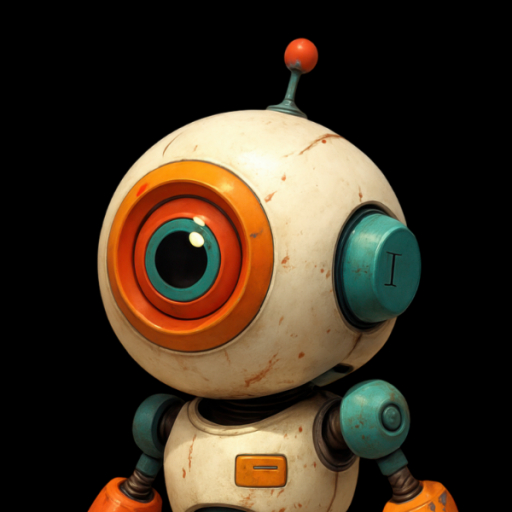
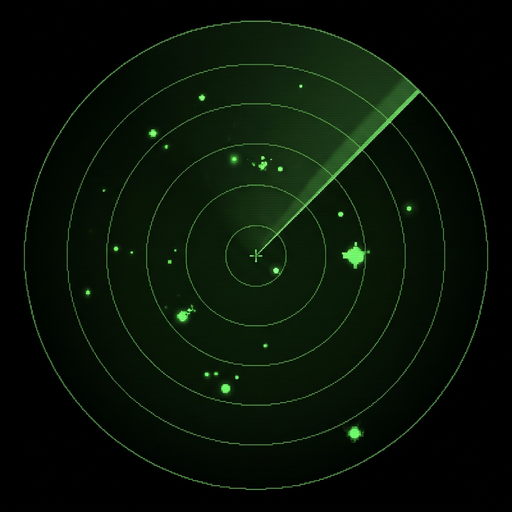
chore: rename project to Vigilux and update assets
Rebranded the application to "Vigilux", updated HTML metadata, manifest configuration, and icon references. Incremented service worker cache version and updated the file cache list.

diff --git a/Pixelwatch2.html b/Pixelwatch2.html
@@ -5,13 +5,16 @@
 <meta name="viewport" content="width=device-width, initial-scale=1.0, maximum-scale=1.0, user-scalable=no">
 <meta name="theme-color" content="#1e1e1e">
 <meta name="apple-mobile-web-app-capable" content="yes">
+<meta name="apple-mobile-web-app-title" content="Vigilux">
 <meta name="apple-mobile-web-app-status-bar-style" content="black-translucent">
-<meta name="description" content="Optisches und akustisches Überwachungssystem mit Rhythmus-Erkennung, Anker-Referenz, Mute-Zone, Tarnmodus und Telegram-Integration.">
-<meta property="og:title" content="Pixel-Wächter Pro V2">
-<meta property="og:description" content="Optisches und akustisches Überwachungssystem mit Rhythmus-Erkennung, Anker-Referenz, Mute-Zone, Tarnmodus und Telegram-Integration.">
+<meta name="description" content="Vigilux – Optisches und akustisches Überwachungssystem mit Rhythmus-Erkennung, Anker-Referenz, Mute-Zone, Tarnmodus und Telegram-Integration.">
+<meta property="og:title" content="Vigilux">
+<meta property="og:description" content="Vigilux – Optisches und akustisches Überwachungssystem mit Rhythmus-Erkennung, Anker-Referenz, Mute-Zone, Tarnmodus und Telegram-Integration.">
 <link rel="manifest" href="manifest.json">
+<link rel="icon" type="image/png" href="icon-192.png">
+<link rel="apple-touch-icon" href="icon-192.png">
 
-<title>Pixel-Wächter Pro V2</title>
+<title>Vigilux</title>
 <link rel="stylesheet" href="./src/styles.css">
 </head>
 <body>
@@ -40,7 +43,7 @@
         </div>
 
         <div class="help-body">
-            <p>Der <b>Pixel-Wächter Pro V2</b> überwacht optische Helligkeitsschwankungen (Rhythmus-Erkennung) und akustische Signale vollautomatisch und sendet bei Bedarf Bilder, Videos oder Audio direkt über Telegram.</p>
+            <p><b>Vigilux</b> überwacht optische Helligkeitsschwankungen (Rhythmus-Erkennung) und akustische Signale vollautomatisch und sendet bei Bedarf Bilder, Videos oder Audio direkt über Telegram.</p>
             
             <h3 style="color: white; font-size: 16px; margin-bottom: 5px;">1. Schnellstart &amp; Einrichtung</h3>
             <ol>
@@ -95,7 +98,7 @@
         <button id="monitorBtn" class="off">⚠ Überwachung: AUS (Kamera starten)</button>
         <button id="activateStealthBtn">🌙 Tarnmodus</button>
         <button id="toggleSettingsBtn">⚙ Menü</button>
-        <button id="helpBtn">❓</button>
+        <button id="helpBtn" title="Hilfe" aria-label="Hilfe"><svg width="16" height="16" viewBox="0 0 24 24" fill="none" stroke="currentColor" stroke-width="2.2" stroke-linecap="round" stroke-linejoin="round" aria-hidden="true"><circle cx="12" cy="12" r="10"/><path d="M9.09 9a3 3 0 0 1 5.83 1c0 2-3 3-3 3"/><line x1="12" y1="17" x2="12.01" y2="17"/></svg></button>
         <div id="modeBadge" class="mode-badge mode-off" title="Aktueller Betriebsmodus">
             <span class="mode-dot"></span>
             <span id="modeBadgeText">Aus</span>

diff --git a/index.html b/index.html
@@ -5,13 +5,16 @@
 <meta name="viewport" content="width=device-width, initial-scale=1.0, maximum-scale=1.0, user-scalable=no">
 <meta name="theme-color" content="#1e1e1e">
 <meta name="apple-mobile-web-app-capable" content="yes">
+<meta name="apple-mobile-web-app-title" content="Vigilux">
 <meta name="apple-mobile-web-app-status-bar-style" content="black-translucent">
-<meta name="description" content="Optisches und akustisches Überwachungssystem mit Rhythmus-Erkennung, Anker-Referenz, Mute-Zone, Tarnmodus und Telegram-Integration.">
-<meta property="og:title" content="Pixel-Wächter Pro V2">
-<meta property="og:description" content="Optisches und akustisches Überwachungssystem mit Rhythmus-Erkennung, Anker-Referenz, Mute-Zone, Tarnmodus und Telegram-Integration.">
+<meta name="description" content="Vigilux – Optisches und akustisches Überwachungssystem mit Rhythmus-Erkennung, Anker-Referenz, Mute-Zone, Tarnmodus und Telegram-Integration.">
+<meta property="og:title" content="Vigilux">
+<meta property="og:description" content="Vigilux – Optisches und akustisches Überwachungssystem mit Rhythmus-Erkennung, Anker-Referenz, Mute-Zone, Tarnmodus und Telegram-Integration.">
 <link rel="manifest" href="manifest.json">
+<link rel="icon" type="image/png" href="icon-192.png">
+<link rel="apple-touch-icon" href="icon-192.png">
 
-<title>Pixel-Wächter Pro V2</title>
+<title>Vigilux</title>
 <link rel="stylesheet" href="./src/styles.css">
 </head>
 <body>
@@ -40,7 +43,7 @@
         </div>
 
         <div class="help-body">
-            <p>Der <b>Pixel-Wächter Pro V2</b> überwacht optische Helligkeitsschwankungen (Rhythmus-Erkennung) und akustische Signale vollautomatisch und sendet bei Bedarf Bilder, Videos oder Audio direkt über Telegram.</p>
+            <p><b>Vigilux</b> überwacht optische Helligkeitsschwankungen (Rhythmus-Erkennung) und akustische Signale vollautomatisch und sendet bei Bedarf Bilder, Videos oder Audio direkt über Telegram.</p>
             
             <h3 style="color: white; font-size: 16px; margin-bottom: 5px;">1. Schnellstart &amp; Einrichtung</h3>
             <ol>
@@ -95,7 +98,7 @@
         <button id="monitorBtn" class="off">⚠ Überwachung: AUS (Kamera starten)</button>
         <button id="activateStealthBtn">🌙 Tarnmodus</button>
         <button id="toggleSettingsBtn">⚙ Menü</button>
-        <button id="helpBtn">❓</button>
+        <button id="helpBtn" title="Hilfe" aria-label="Hilfe"><svg width="16" height="16" viewBox="0 0 24 24" fill="none" stroke="currentColor" stroke-width="2.2" stroke-linecap="round" stroke-linejoin="round" aria-hidden="true"><circle cx="12" cy="12" r="10"/><path d="M9.09 9a3 3 0 0 1 5.83 1c0 2-3 3-3 3"/><line x1="12" y1="17" x2="12.01" y2="17"/></svg></button>
         <div id="modeBadge" class="mode-badge mode-off" title="Aktueller Betriebsmodus">
             <span class="mode-dot"></span>
             <span id="modeBadgeText">Aus</span>

diff --git a/public/sw.js b/public/sw.js
@@ -1,0 +1,53 @@
+const CACHE_NAME = 'vigilux-cache-v6';
+const urlsToCache = [
+  './',
+  './index.html',
+  './Pixelwatch2.html',
+  './manifest.json',
+  './icon-192.png',
+  './icon-512.png',
+  './icon.png'
+];
+
+self.addEventListener('install', event => {
+  self.skipWaiting();
+  event.waitUntil(
+    caches.open(CACHE_NAME)
+      .then(cache => cache.addAll(urlsToCache))
+      .catch(() => {})
+  );
+});
+
+self.addEventListener('activate', event => {
+  event.waitUntil(
+    caches.keys().then(keys =>
+      Promise.all(
+        keys.map(key => {
+          if (key !== CACHE_NAME) {
+            return caches.delete(key);
+          }
+        })
+      )
+    ).then(() => self.clients.claim())
+  );
+});
+
+// Network-First Strategie: Holt immer die aktuellsten Dateien vom Server
+// und nutzt den Cache nur als Offline-Fallback. Verhindert veraltete/zerschossene UI-Stände!
+self.addEventListener('fetch', event => {
+  if (event.request.method !== 'GET') return;
+
+  event.respondWith(
+    fetch(event.request)
+      .then(networkResponse => {
+        if (networkResponse && networkResponse.status === 200 && networkResponse.type === 'basic') {
+          const responseClone = networkResponse.clone();
+          caches.open(CACHE_NAME).then(cache => {
+            cache.put(event.request, responseClone);
+          });
+        }
+        return networkResponse;
+      })
+      .catch(() => caches.match(event.request))
+  );
+});

diff --git a/sw.js b/sw.js
@@ -1,9 +1,12 @@
-const CACHE_NAME = 'pixel-waechter-v2-cache-v5';
+const CACHE_NAME = 'vigilux-cache-v6';
 const urlsToCache = [
   './',
   './index.html',
   './Pixelwatch2.html',
   './manifest.json',
+  './icon-192.png',
+  './icon-512.png',
+  './icon.png',
   './src/styles.css',
   './src/main.js',
   './src/dom.js',
@@ -13,7 +16,6 @@ const urlsToCache = [
   './src/audio.js',
   './src/weather.js',
   './src/telegram.js',
-  './src/babyphone.js',
   './src/analyzer.js',
   './src/camera.js'
 ];
